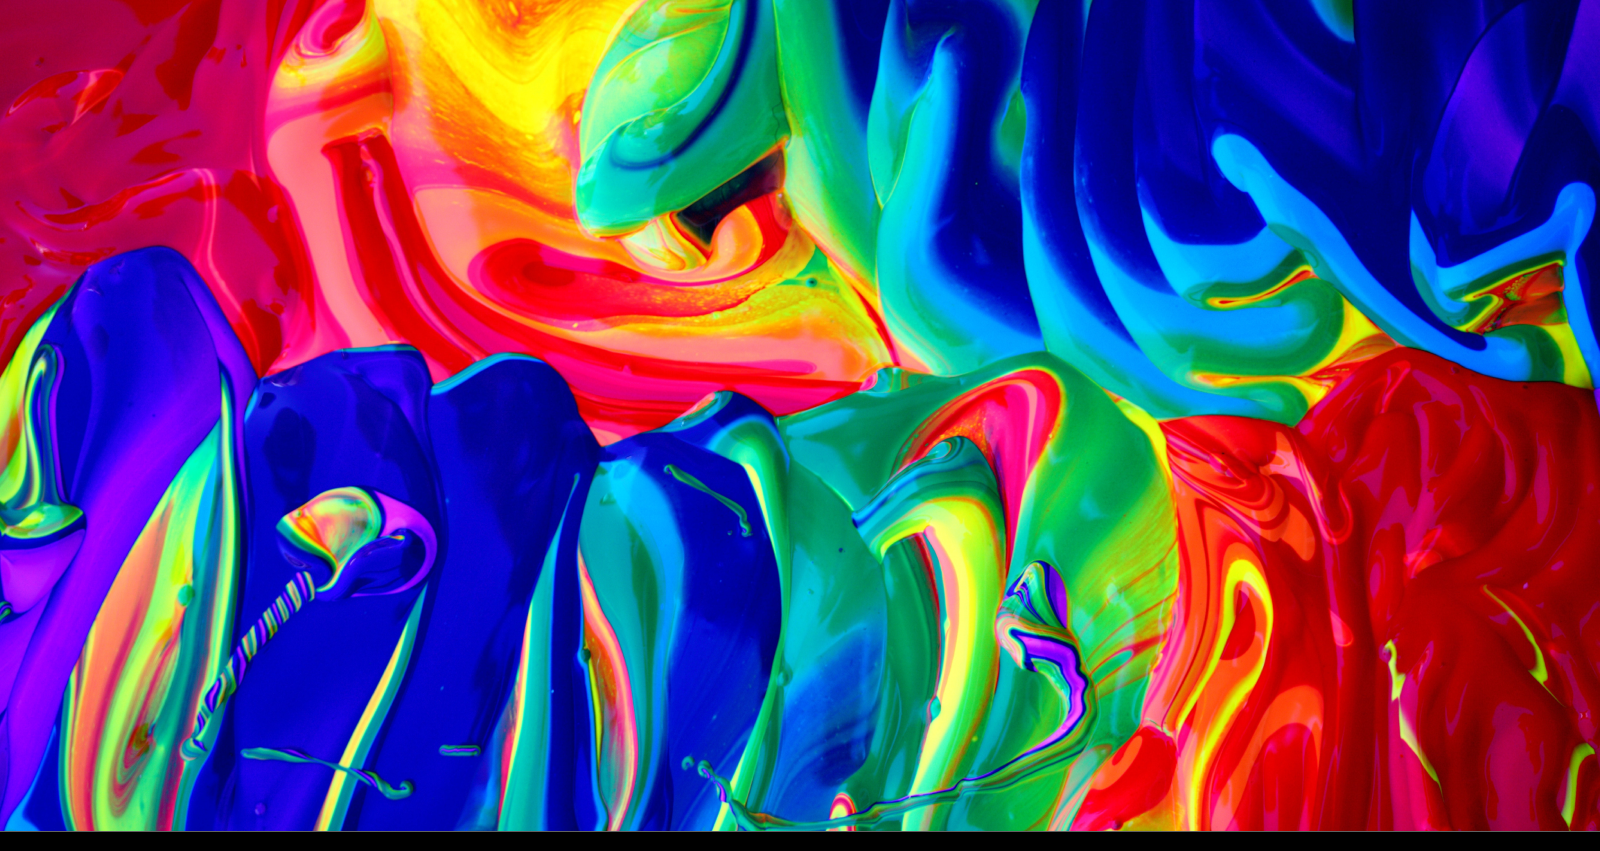
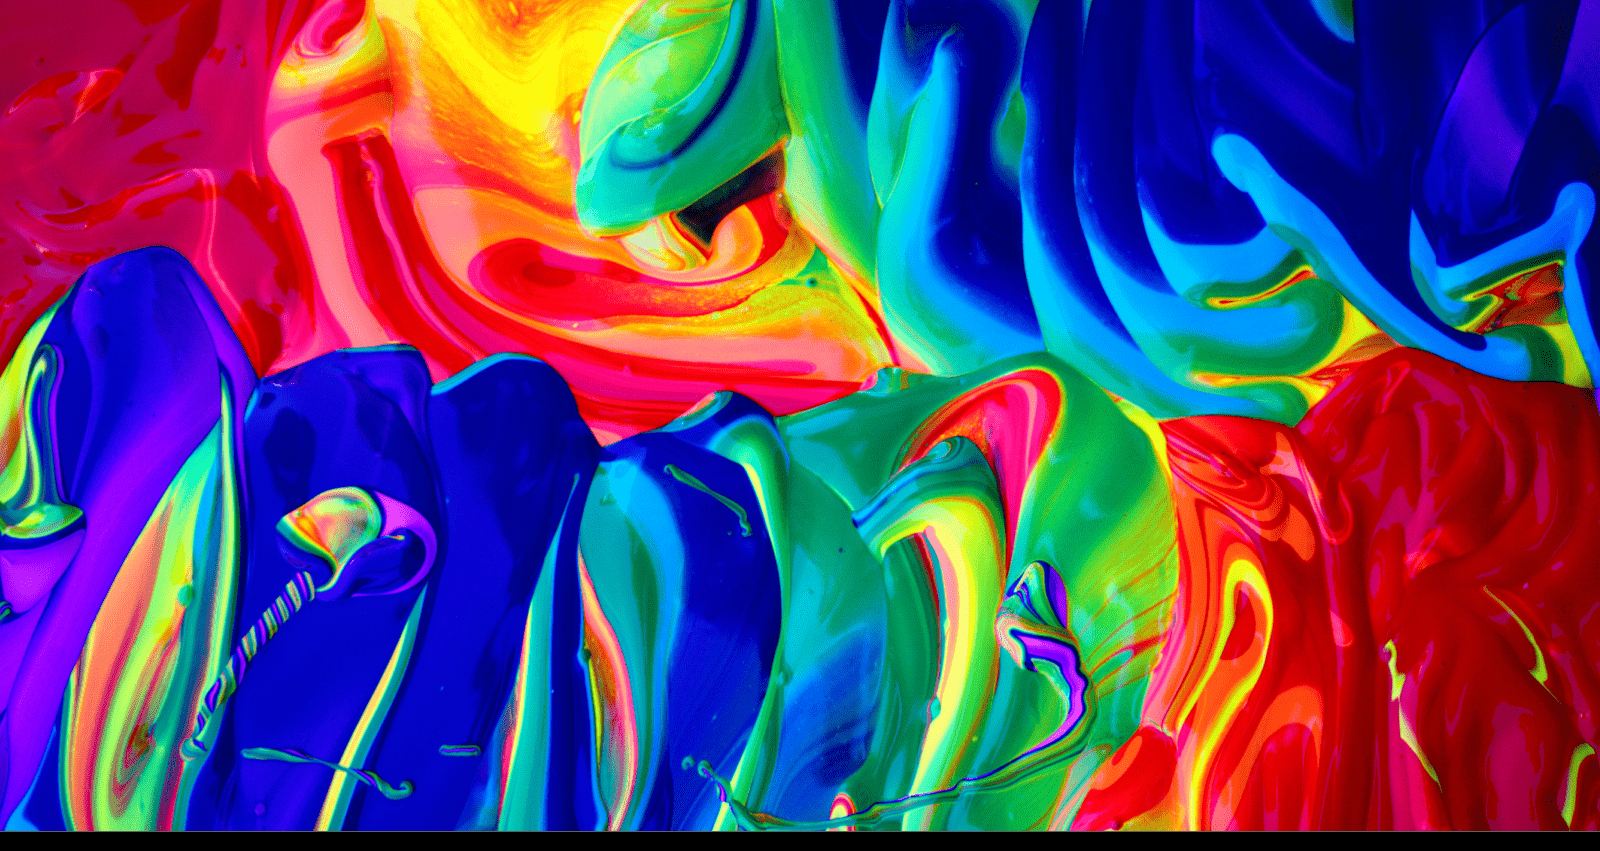
72: Reduce image sizes for the gallery and main background images

diff --git a/site/pages/gallery/index.tsx b/site/pages/gallery/index.tsx
@@ -10,30 +10,30 @@ import styles from "./Gallery.module.scss";
 
 const Gallery = () => {
 	const imageList = [
-		"/gallery/gallery_24.jpg",
-		"/gallery/gallery_23.jpg",
-		"/gallery/gallery_22.jpg",
-		"/gallery/gallery_21.jpg",
-		"/gallery/gallery_20.jpg",
-		"/gallery/gallery_19.jpg",
-		"/gallery/gallery_18.jpg",
-		"/gallery/gallery_17.jpg",
-		"/gallery/gallery_16.jpg",
-		"/gallery/gallery_15.jpg",
-		"/gallery/gallery_14.jpg",
-		"/gallery/gallery_13.jpg",
-		"/gallery/gallery_12.jpg",
-		"/gallery/gallery_11.jpg",
-		"/gallery/gallery_10.jpg",
-		"/gallery/gallery_9.jpg",
-		"/gallery/gallery_8.jpg",
-		"/gallery/gallery_7.jpg",
-		"/gallery/gallery_6.jpg",
-		"/gallery/gallery_5.jpg",
-		"/gallery/gallery_4.jpg",
-		"/gallery/gallery_3.jpg",
-		"/gallery/gallery_2.jpg",
-		"/gallery/gallery_1.jpg",
+		"/gallery/gallery_24-min.jpg",
+		"/gallery/gallery_23-min.jpg",
+		"/gallery/gallery_22-min.jpg",
+		"/gallery/gallery_21-min.jpg",
+		"/gallery/gallery_20-min.jpg",
+		"/gallery/gallery_19-min.jpg",
+		"/gallery/gallery_18-min.jpg",
+		"/gallery/gallery_17-min.jpg",
+		"/gallery/gallery_16-min.jpg",
+		"/gallery/gallery_15-min.jpg",
+		"/gallery/gallery_14-min.jpg",
+		"/gallery/gallery_13-min.jpg",
+		"/gallery/gallery_12-min.jpg",
+		"/gallery/gallery_11-min.jpg",
+		"/gallery/gallery_10-min.jpg",
+		"/gallery/gallery_9-min.jpg",
+		"/gallery/gallery_8-min.jpg",
+		"/gallery/gallery_7-min.jpg",
+		"/gallery/gallery_6-min.jpg",
+		"/gallery/gallery_5-min.jpg",
+		"/gallery/gallery_4-min.jpg",
+		"/gallery/gallery_3-min.jpg",
+		"/gallery/gallery_2-min.jpg",
+		"/gallery/gallery_1-min.jpg",
 	];
 	const borderColor = [
 		"brand.primary.default",
